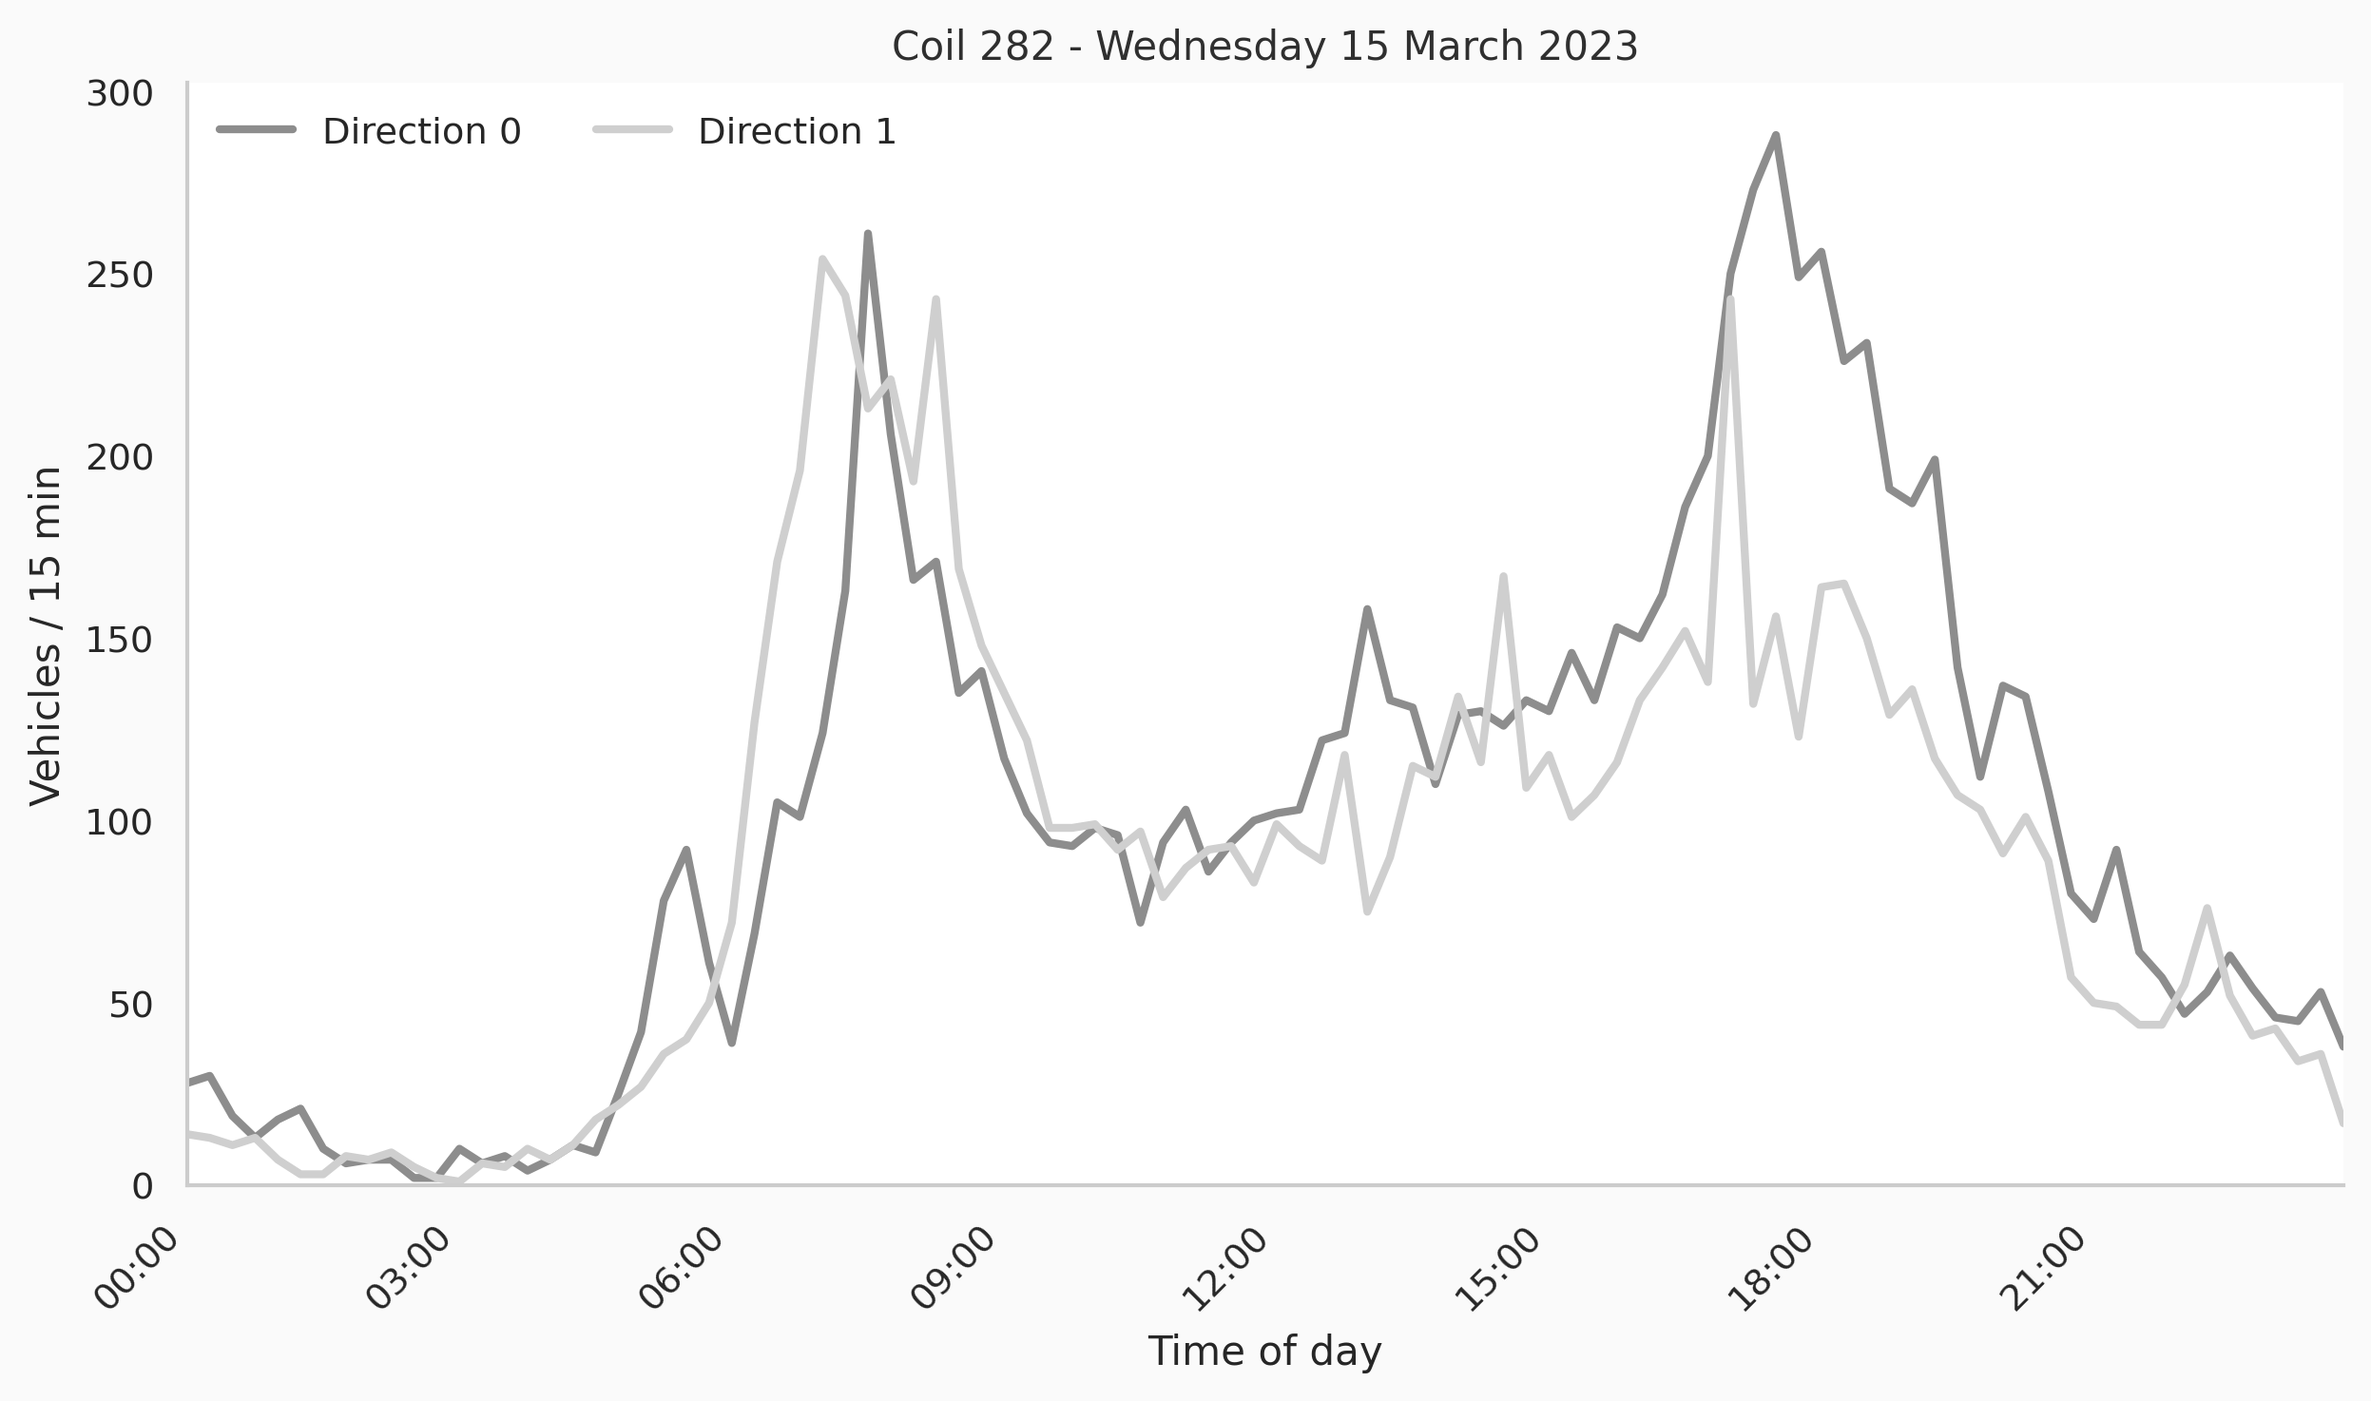
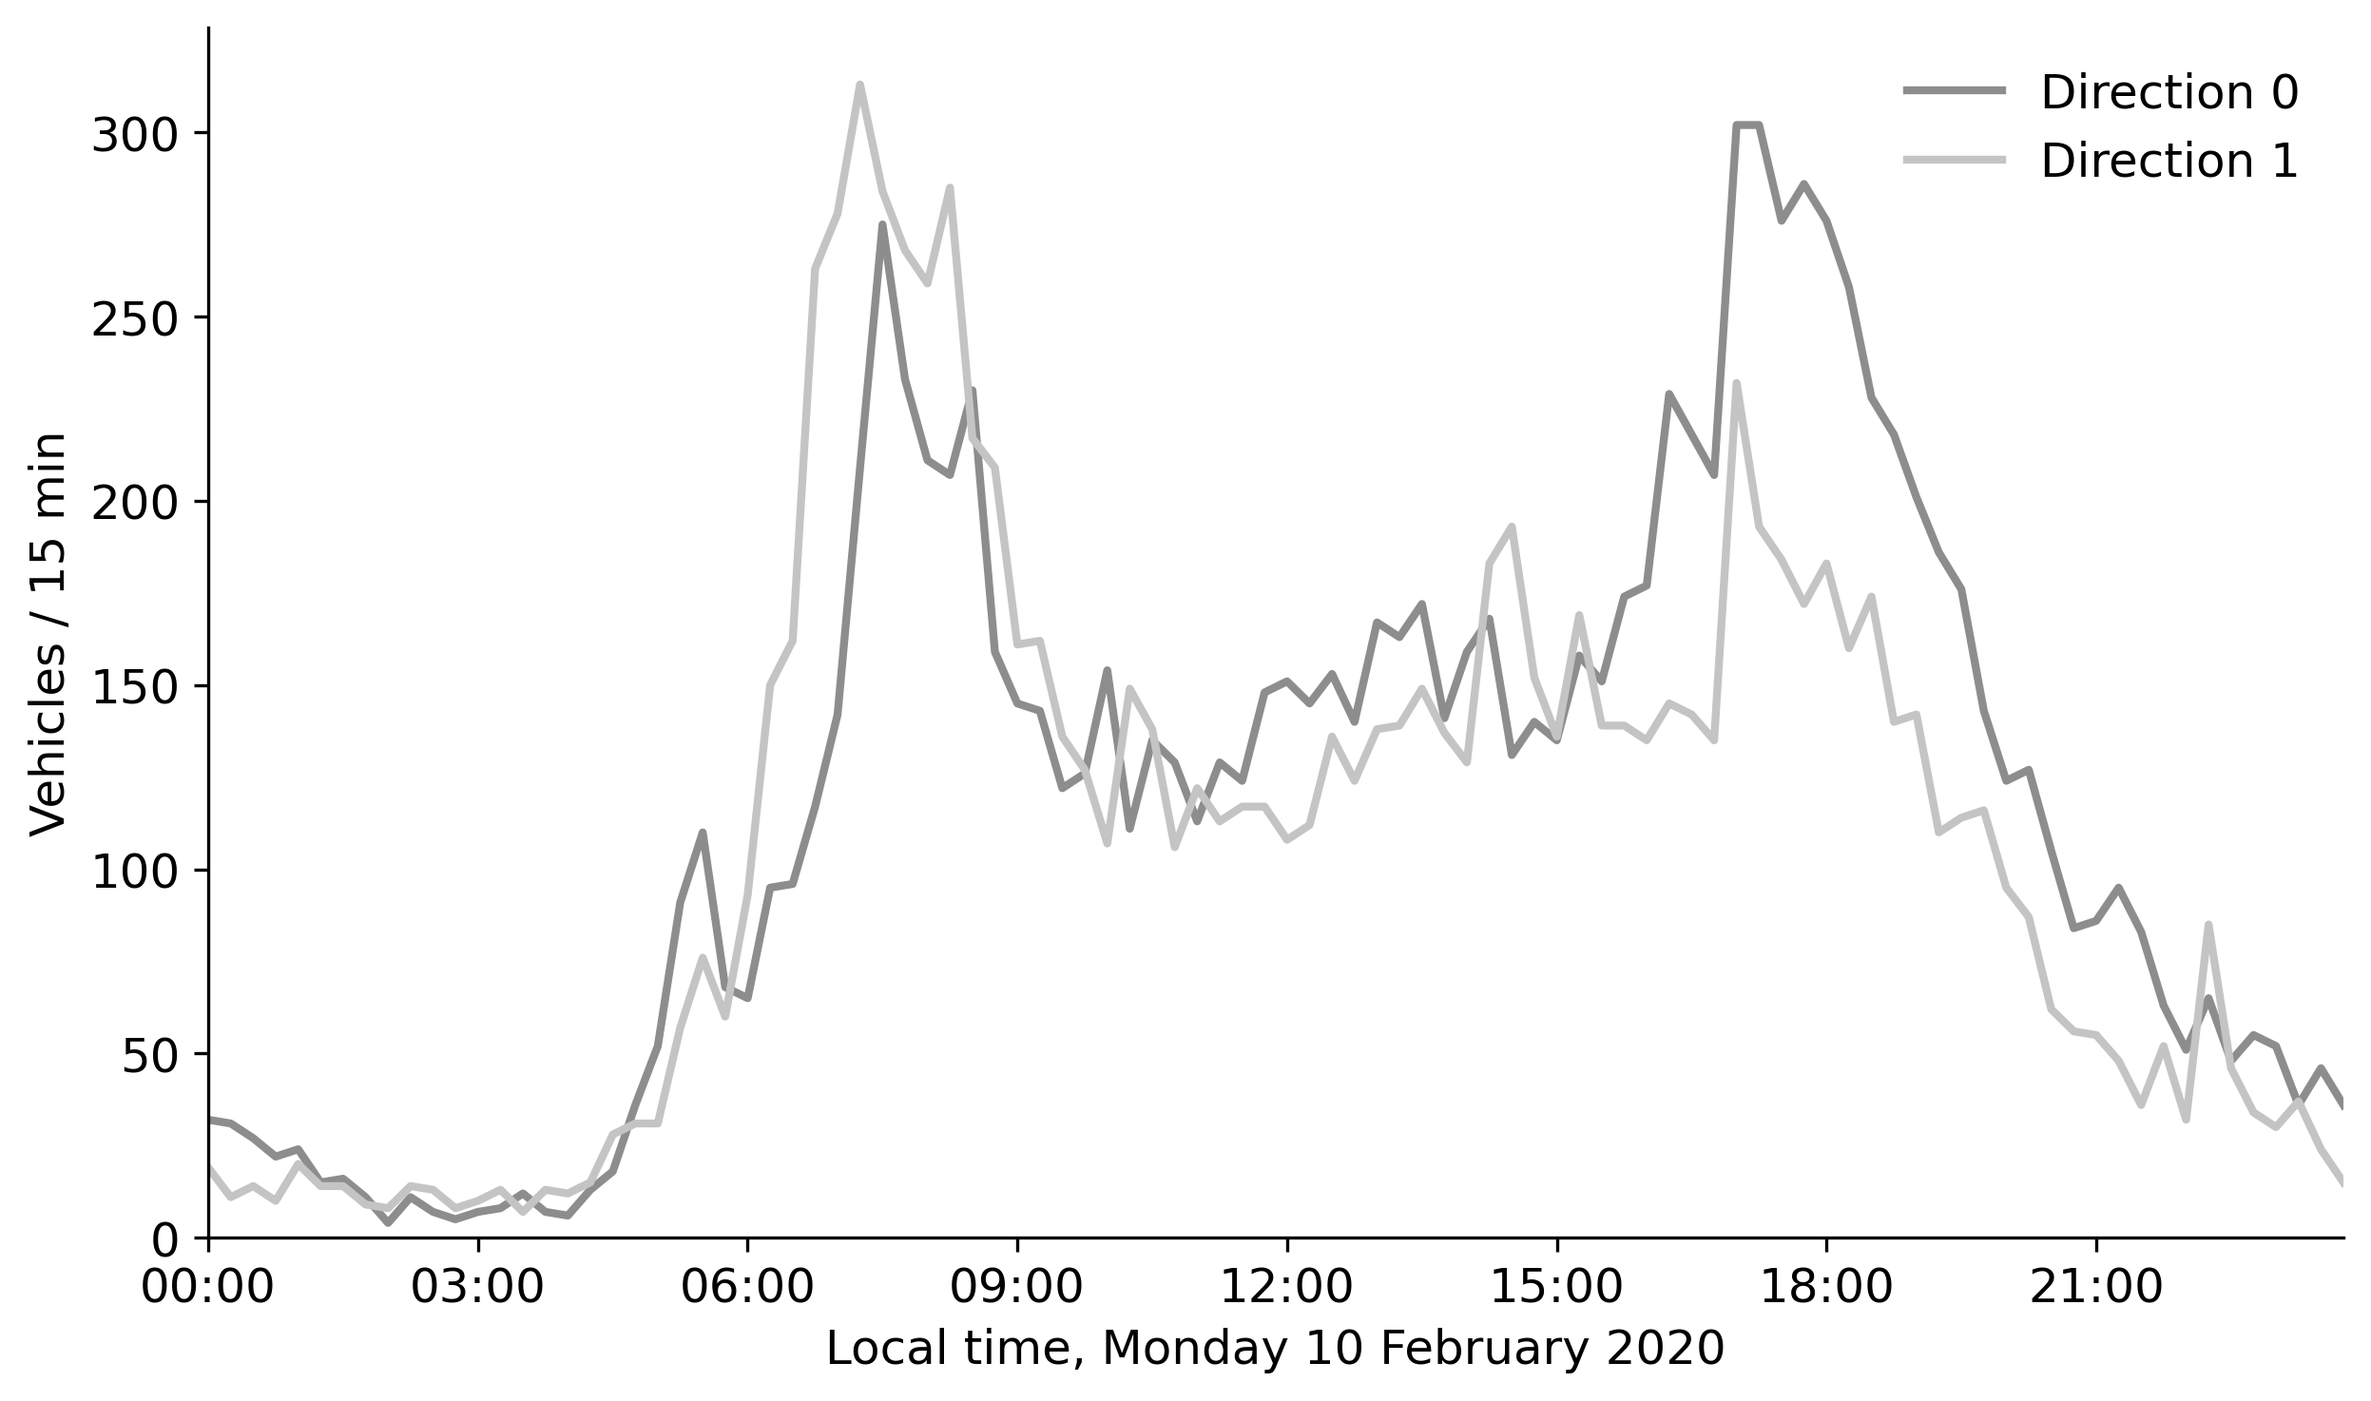
Align coil-282 dates and plot the counter in local time (point 1)
Fig. 2d was drawn from 15 March 2023 data while captions mentioned
15 March 2020; Fig. 4a used 10 February 2020. Both panels now show
Monday 10 February 2020, the day of the archived simulation. The MTS
table is stored in UTC and is converted to Europe/Rome before plotting,
which moves the coil peaks to 07:00 and 17:00 (supplementary coil-282 table).
Composite figures are now assembled by compose_figures.py.

diff --git a/python/revision/compose_figures.py b/python/revision/compose_figures.py
@@ -1,0 +1,109 @@
+#!/usr/bin/env python3
+"""Assemble the multi-panel manuscript figures from the single panels in article/tex/images.
+
+Each row is scaled to a common height and the composite is resized to WIDTH pixels,
+which is about 300 dpi at the text width of the journal template (17.4 cm). Figures
+dominated by maps are written as high-quality JPEG to keep the PDF small.
+"""
+from pathlib import Path
+
+from PIL import Image, ImageDraw, ImageFont
+
+ROOT = Path(__file__).resolve().parents[3]
+IMG = ROOT / "article/tex/images"
+INC = ROOT / "article/ipynb/figures_incident_risk"
+WIDTH = 2400
+GAP = 30
+FONT = None
+for cand in ["/usr/share/fonts/truetype/dejavu/DejaVuSans-Bold.ttf",
+             "/usr/share/fonts/truetype/liberation/LiberationSans-Bold.ttf"]:
+    if Path(cand).exists():
+        FONT = cand
+        break
+
+
+CROP_TOP = {"1c_coils_mapping.png": 0.105}  # drop the title left in the stand-alone panel
+
+
+def load(p):
+    im = Image.open(p).convert("RGB")
+    f = CROP_TOP.get(Path(p).name)
+    if f:
+        im = im.crop((0, round(im.height * f), im.width, im.height))
+    pad = round(0.09 * im.height)  # white band that hosts the panel letter
+    out = Image.new("RGB", (im.width, im.height + pad), "white")
+    out.paste(im, (0, pad))
+    return out
+
+
+def row(images, letters):
+    h = min(im.height for im in images)
+    scaled = [im.resize((round(im.width * h / im.height), h), Image.LANCZOS) for im in images]
+    w = sum(im.width for im in scaled) + GAP * (len(scaled) - 1)
+    canvas = Image.new("RGB", (w, h), "white")
+    x = 0
+    pos = []
+    for im in scaled:
+        canvas.paste(im, (x, 0))
+        pos.append(x)
+        x += im.width + GAP
+    return canvas, list(zip(pos, letters))
+
+
+def compose(rows, out, jpeg=False, extra_letters=()):
+    built = [row([load(p) for p in r], l) for r, l in rows]
+    scaled = []
+    for canvas, letters in built:
+        f = WIDTH / canvas.width
+        scaled.append((canvas.resize((WIDTH, round(canvas.height * f)), Image.LANCZOS),
+                       [(round(x * f), l) for x, l in letters]))
+    H = sum(c.height for c, _ in scaled) + GAP * (len(scaled) - 1)
+    fig = Image.new("RGB", (WIDTH, H), "white")
+    draw = ImageDraw.Draw(fig)
+    font = ImageFont.truetype(FONT, 64) if FONT else ImageFont.load_default()
+    y = 0
+    for canvas, letters in scaled:
+        fig.paste(canvas, (0, y))
+        for x, l in letters:
+            if l:
+                draw.text((x + 6, y + 4), l, fill="black", font=font)
+        y += canvas.height + GAP
+    for (fx, fy, l) in extra_letters:
+        draw.text((round(fx * WIDTH), round(fy * H)), l, fill="black", font=font)
+    if jpeg:
+        fig.save(IMG / f"{out}.jpg", quality=90, dpi=(300, 300), optimize=True)
+    else:
+        fig.save(IMG / f"{out}.png", dpi=(300, 300), optimize=True)
+    print(out, fig.size)
+
+
+def panel_d_with_inset():
+    """Coil-282 profile with the location map as an inset (top-left corner)."""
+    prof = load(IMG / "1d_coil_profile.png")
+    loc = load(IMG / "coil_282_location.png")
+    s = round(prof.height * 0.40)
+    loc = loc.resize((s, s), Image.LANCZOS)
+    x0, y0 = round(prof.width * 0.13), round(prof.height * 0.04)
+    d = ImageDraw.Draw(prof)
+    prof.paste(loc, (x0, y0))
+    d.rectangle([x0, y0, x0 + s, y0 + s], outline="#888888", width=4)
+    out = IMG / "1d_coil_profile_inset.png"
+    prof.save(out)
+    return out
+
+
+if __name__ == "__main__":
+    compose([((IMG / "1a_map_study_area.png", IMG / "1b_od_demand.png"), "ab"),
+             ((IMG / "1c_coils_mapping.png", panel_d_with_inset()), "cd")], "fig1", jpeg=True)
+    compose([((IMG / "4_poly_flow.png", IMG / "5_simulated_daily_flux_map.png"), "ab")], "fig3", jpeg=True)
+    compose([((IMG / "6a_viasat_coverage_2020.png", IMG / "6b_penetration_statistics_2020.png", IMG / "6c_cluster_2020.png"), "abc"),
+             ((IMG / "6a_viasat_coverage_2021.png", IMG / "6b_penetration_statistics_2021.png", IMG / "6c_cluster_2021.png"), "def")],
+            "fig4", jpeg=True)
+    compose([((IMG / "7a_dendrogram.png", IMG / "7b_dendrogram_geoloc.png"), "ab")], "fig5")
+    compose([((IMG / "8a_cluster_black.png", IMG / "8c_cluster_red.png"), "ab"),
+             ((IMG / "8b_cluster_blue.png", IMG / "8d_representative_polylines_location.png"), "cd")], "fig6")
+    compose([((INC / "8b_hourly_accidents_vs_exposure.png", INC / "8c_exposure_normalized_hourly_risk.png"), "ab"),
+             ((INC / "9c_hourly_risk_clusters.png", INC / "9b_exposure_elasticity.png"), "cd")], "fig7")
+    compose([((INC / "8e_hazard_weighted_exposure_map.png", INC / "8f_weekday_holiday_hazard_difference.png"), "ab"),
+             ((INC / "9a_risk_centrality.png", INC / "9d_high_risk_anomaly_map.png"), "ce")], "fig8", jpeg=True,
+            extra_letters=[(0.30, 0.47, "d")])

diff --git a/tex/epjds_main_draft.tex b/tex/epjds_main_draft.tex
@@ -86,7 +86,7 @@ The regional road traffic flow monitoring system (MTS) coils provide local vehic
 
 \begin{figure*}[htbp]
   \centering
-  \includegraphics[width=\textwidth,height=.72\textheight,keepaspectratio]{fig1.png}
+  \includegraphics[width=\textwidth,height=.72\textheight,keepaspectratio]{fig1.jpg}
   \caption{\textbf{Study domain and observational inputs.}
   \textbf{(a)} Regional road cartography used by the model on a CartoDB
   Positron basemap; the scale bar corresponds to 50~km.
@@ -95,8 +95,8 @@ The regional road traffic flow monitoring system (MTS) coils provide local vehic
   logarithmic scale.
   \textbf{(c)} Magnetic traffic-system coil locations over the regional
   road graph.
-  \textbf{(d)} Detailed location of coil 282 and complete 15-min
-  directional vehicle counts for Wednesday, 15 March 2020.}
+  \textbf{(d)} Location of coil 282 (inset) and complete 15-min
+  directional vehicle counts on Monday 10 February 2020, local time.}
   \label{fig:inputs}
 \end{figure*}
 
@@ -121,16 +121,16 @@ Figure~\ref{fig:demand}b,c shows the mobility components used to decompose agent
 
 \subsection{Network reconstruction and local counter control}
 
-The simulation converts the OD demand into directional link flows. For each hour, generated agents are placed on the directed road graph, routed toward their destination and counted on every traversed polyline. The output is a link-by-time matrix $\phi_i(h)$, where $i$ is a road polyline and $h$ is the hour. The comparison with coil 282 shows that the simulated road associated with the counter follows the same broad daily structure as the observed series on 10 February 2020 (Fig.~\ref{fig:simulation}a). The map of simulated daily flows highlights the high-volume regional corridors while retaining non-zero information on the secondary network (Fig.~\ref{fig:simulation}b). This microscopic-to-link aggregation follows the logic of agent-based traffic simulators, where individual vehicle trajectories are used to recover network-level flow fields
+The simulation converts the OD demand into directional link flows. For each hour, generated agents are placed on the directed road graph, routed toward their destination and counted on every traversed polyline. The output is a link-by-time matrix $\phi_i(h)$, where $i$ is a road polyline and $h$ is the hour. The comparison with coil 282 shows that the simulated road associated with the counter follows the same broad daily structure as the observed series on Monday 10 February 2020, a working day before the COVID-19 mobility restrictions (Fig.~\ref{fig:simulation}a). The map of simulated daily flows highlights the high-volume regional corridors while retaining non-zero information on the secondary network (Fig.~\ref{fig:simulation}b). This microscopic-to-link aggregation follows the logic of agent-based traffic simulators, where individual vehicle trajectories are used to recover network-level flow fields
 \cite{horni2016,lopez2018,treiber2013}.
 
 \begin{figure*}[htbp]
   \centering
-  \includegraphics[width=\textwidth,height=.72\textheight,keepaspectratio]{fig3.png}
+  \includegraphics[width=\textwidth,height=.72\textheight,keepaspectratio]{fig3.jpg}
   \caption{\textbf{Link-level reconstruction output.}
   \textbf{(a)} Hourly simulated flow on the polyline associated with coil
-  282 compared with hourly aggregated coil observations on 15 March
-  2020; $\Phi$ denotes vehicle flow.
+  282 compared with hourly aggregated coil observations on Monday
+  10 February 2020; $\Phi$ denotes vehicle flow.
   \textbf{(b)} Spatial distribution of simulated daily link flows over
   Emilia-Romagna, expressed through flow quantile classes; yellow segments
   carry the highest reconstructed flows and purple segments the lowest.}

diff --git a/python/revision/coil_282.py b/python/revision/coil_282.py
@@ -1,0 +1,74 @@
+#!/usr/bin/env python3
+"""Coil 282 panels on Monday 10 February 2020 (Fig. 2d and Fig. 4a).
+
+The MTS tables store UTC timestamps; they are converted to Europe/Rome before plotting
+so that the observed series and the simulation share the same local clock.
+Writes 1d_coil_profile.* and 4_poly_flow.* in article/tex/images and the summary used
+in the supplementary coil table.
+"""
+import json
+from pathlib import Path
+
+import matplotlib
+matplotlib.use("Agg")
+import matplotlib.dates as mdates
+import matplotlib.pyplot as plt
+import pandas as pd
+
+ROOT = Path(__file__).resolve().parents[3]
+IMG = ROOT / "article/tex/images"
+DAY = pd.Timestamp("2020-02-10")
+COILS = ROOT / "data/old_coils_data/_coils_table_200201-000000_200331-234500.csv"
+SIM = ROOT / "work_viasat/sim2020/uniq/sim_230330113558146127_uniq_200210_000000.csv.corrected"
+POLY = 214686  # polyline associated with coil 282 (poly_lid 2107)
+plt.rcParams.update({"font.size": 12, "axes.spines.top": False, "axes.spines.right": False})
+
+
+def save(fig, stem):
+    for ext in ("png", "pdf"):
+        fig.savefig(IMG / f"{stem}.{ext}", bbox_inches="tight", dpi=300)
+    plt.close(fig)
+
+
+coil = pd.read_csv(COILS, sep=";", usecols=["datetime", "282_0", "282_1"])
+coil.index = pd.to_datetime(coil.datetime, utc=True).dt.tz_convert("Europe/Rome").dt.tz_localize(None)
+day = coil.loc[(coil.index >= DAY) & (coil.index < DAY + pd.Timedelta(days=1)), ["282_0", "282_1"]]
+assert len(day) == 96 and day.notna().all().all(), "incomplete coil 282 data"
+
+fig, ax = plt.subplots(figsize=(8.2, 4.8), constrained_layout=True)
+ax.plot(day.index, day["282_0"], color="#8D8D8D", lw=2, label="Direction 0")
+ax.plot(day.index, day["282_1"], color="#C4C4C4", lw=2, label="Direction 1")
+ax.set_xlabel("Local time, Monday 10 February 2020")
+ax.set_ylabel("Vehicles / 15 min")
+ax.xaxis.set_major_locator(mdates.HourLocator(byhour=range(0, 24, 3)))
+ax.xaxis.set_major_formatter(mdates.DateFormatter("%H:%M"))
+ax.set_xlim(day.index.min(), day.index.max())
+ax.set_ylim(bottom=0)
+ax.legend(frameon=False, ncol=1, loc="upper right")
+save(fig, "1d_coil_profile")
+
+sim = pd.read_csv(SIM, sep=";")
+cols = [c for c in sim.columns if c.startswith("2020-")]
+flow = sim.loc[sim.poly_cid == POLY, cols].sum()
+flow.index = pd.to_datetime(flow.index)
+hourly_coil = day.sum(axis=1).resample("h").sum()
+fig, ax = plt.subplots(figsize=(9.0, 5.0), constrained_layout=True)
+ax.plot(flow.index + pd.Timedelta(minutes=30), flow.values, color="#8D8D8D", marker="o", ms=5, lw=2.4,
+        label="Simulation (assimilated)")
+ax.plot(hourly_coil.index + pd.Timedelta(minutes=30), hourly_coil.values, color="#B0B0B0", marker="s", ms=5,
+        lw=2.2, ls="--", label="Coil 282")
+ax.set_xlabel("Local time")
+ax.set_ylabel(r"$\Phi$ (veh/h)")
+ax.xaxis.set_major_locator(mdates.HourLocator(interval=3))
+ax.xaxis.set_major_formatter(mdates.DateFormatter("%H:%M"))
+ax.legend(loc="upper right", frameon=False)
+save(fig, "4_poly_flow")
+
+hour = day.resample("h").sum()
+summary = {d: {"samples": int(day[d].notna().sum()), "daily_sum": int(day[d].sum()),
+               "peak_hourly": int(hour[d].max()), "peak_hour": hour[d].idxmax().strftime("%H:%M")}
+           for d in ["282_0", "282_1"]}
+out = ROOT / "article/results/revision"
+out.mkdir(parents=True, exist_ok=True)
+(out / "coil_282_summary.json").write_text(json.dumps(summary, indent=2))
+print(summary)

diff --git a/tex/epjds_supplementary_draft.tex b/tex/epjds_supplementary_draft.tex
@@ -324,19 +324,19 @@ The one-vehicle stopping rule in Table~\ref{tab:correction-rules} is a natural d
 
 \begin{table}[htbp]
 \centering
-\caption{Observed coil 282 data on 10 February 2020.}
+\caption{Observed coil 282 data on Monday 10 February 2020 (local time).}
 \label{tab:coil-282}
 \begin{tabular}{@{}lrrrr@{}}
 \toprule
 Direction & Fifteen-minute samples & Daily sum & Peak hourly count & Peak hour \\
 \midrule
-0 & 96 & 11,528 & 1,166 & 16:00 \\
-1 & 96 & 10,395 & 1,143 & 06:00 \\
+0 & 96 & 11,538 & 1,166 & 17:00 \\
+1 & 96 & 10,397 & 1,143 & 07:00 \\
 \bottomrule
 \end{tabular}
 \end{table}
 
-Coil 282 is used in the main manuscript because both directions have complete 15-min coverage for the selected day. The daily sums are similar but not identical, indicating directional asymmetry rather than sensor failure. The opposite peak hours, 16:00 in direction 0 and 06:00 in direction 1, are consistent with a road segment that carries different dominant directions in the morning and afternoon. This makes the station useful as a compact example of why direction-aware matching is needed.
+Coil 282 is used in the main manuscript because both directions have complete 15-min coverage for the selected day. The daily sums are similar but not identical, indicating directional asymmetry rather than sensor failure. The opposite peak hours, 17:00 in direction 0 and 07:00 in direction 1, are consistent with a road segment that carries different dominant directions in the morning and afternoon. This makes the station useful as a compact example of why direction-aware matching is needed.
 
 \section{Validation Tables}
 \label{sec:validation-tables}
